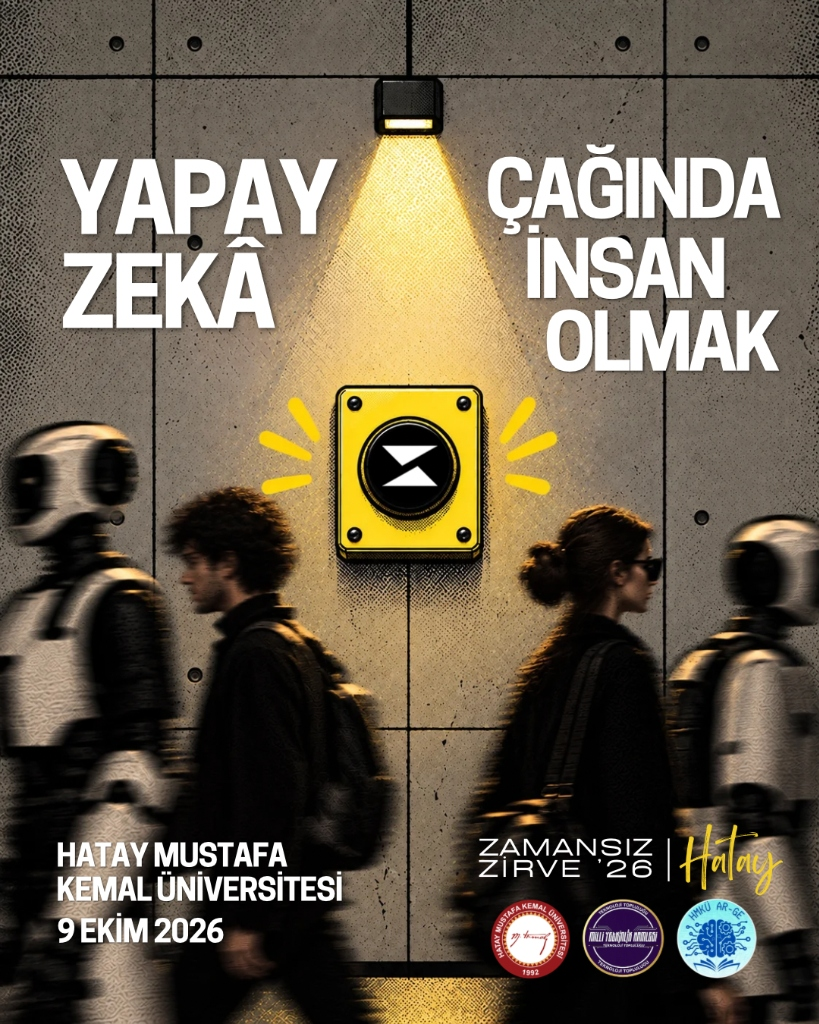
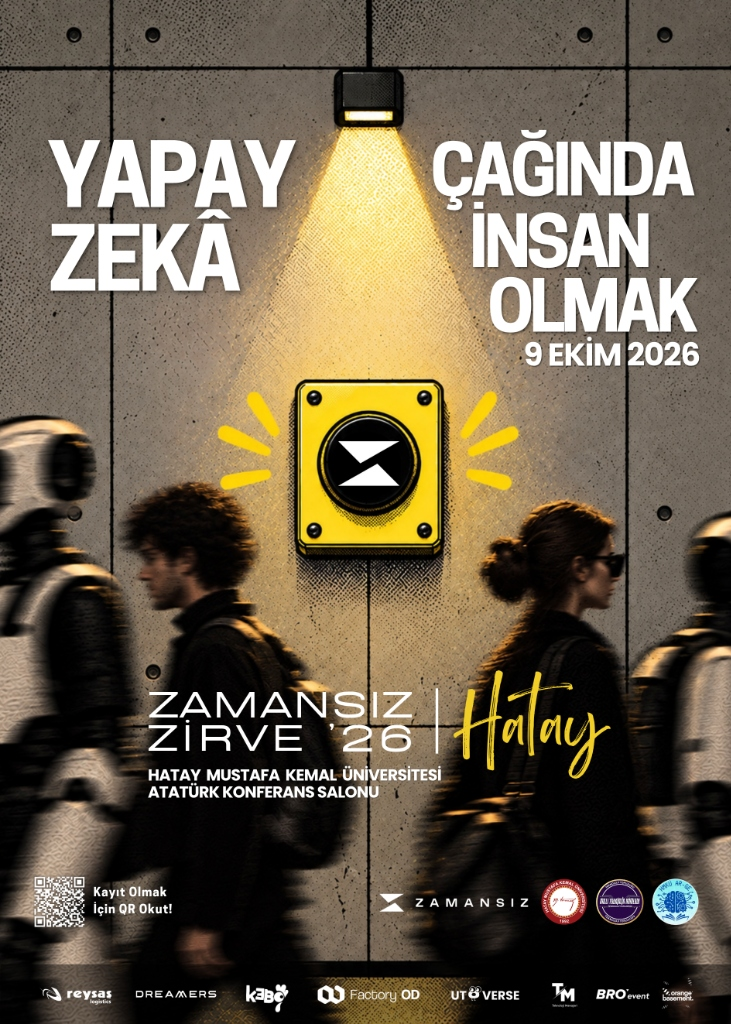
feat: Ozan Sihay konusmaci olarak eklendi, yeni afis guncellendi, sponsor bolumu ve CSS eklendi

diff --git a/public/index.html b/public/index.html
@@ -511,6 +511,30 @@
                         </a>
                     </div>
                 </div>
+
+                <!-- Speaker 11: Ozan Sihay -->
+                <div class="speaker-card animate-on-scroll">
+                    <div class="speaker-image-wrapper">
+                        <img src="images/speaker-ozan-sihay.png" alt="Ozan Sihay" class="speaker-image">
+                    </div>
+                    <div class="speaker-info">
+                        <h3 class="speaker-name">Ozan Sihay</h3>
+                        <span class="speaker-title">Yönetmen & Fotoğrafçı · OzWorks AI Creative Kurucusu · Üretken Yapay Zekâ Danışmanı</span>
+                        <p class="speaker-bio">
+                            Çukurova Üniversitesi mezunu olan Ozan Sihay, uluslararası yapımlarda (Skyfall, Charlie's Angels) reji ekiplerinde görev almış çok yönlü bir sanatçı, yönetmen ve fotoğrafçıdır. YouTube kanalında yapay zekâ, video düzenleme, fotoğrafçılık ve dijital eğitim içerikleri paylaşmaktadır. Hâlen Garanti, Google, Vodafone ve Turkuvaz Medya gibi büyük kurumsal markalara üretken yapay zekâ alanında eğitim ve danışmanlık vermekte; kurucusu olduğu OzWorks AI Creative ajansı aracılığıyla markalara yapay zekâ ile video üretimi hizmeti sunmaktadır.
+                        </p>
+                        <div class="speaker-tags">
+                            <span class="tag">OzWorks AI Kurucusu</span>
+                            <span class="tag">Yönetmen & Fotoğrafçı</span>
+                            <span class="tag">Üretken Yapay Zekâ</span>
+                            <span class="tag">Dijital İçerik Üreticisi</span>
+                        </div>
+                        <a href="https://ozansihay.com.tr" target="_blank" rel="noopener" class="speaker-linkedin">
+                            <svg width="18" height="18" viewBox="0 0 24 24" fill="none" stroke="currentColor" stroke-width="2" stroke-linecap="round" stroke-linejoin="round"><circle cx="12" cy="12" r="10"></circle><line x1="2" y1="12" x2="22" y2="12"></line><path d="M12 2a15.3 15.3 0 0 1 4 10 15.3 15.3 0 0 1-4 10 15.3 15.3 0 0 1-4-10 15.3 15.3 0 0 1 4-10z"></path></svg>
+                            <span>Web Sitesi</span>
+                        </a>
+                    </div>
+                </div>
             </div>
         </div>
     </section>
@@ -869,6 +893,7 @@
                                     <option value="Zeynep Küçük">Zeynep Küçük (Woman Engineer & Veri Bilimi Uzmanı)</option>
                                     <option value="Emre Uzunboy">Emre Uzunboy (Kreatör & Sosyal Medya İletişimcisi)</option>
                                     <option value="Mehmet Kaya">Mehmet Kaya (Nöropazarlama Danışmanı & Neuro Reflect)</option>
+                                    <option value="Ozan Sihay">Ozan Sihay (OzWorks AI Creative & Yönetmen)</option>
                                     <option value="Genel / Tüm Konuşmacılar">Genel / Tüm Konuşmacılara Ortak Soru</option>
                                 </select>
                             </div>
@@ -1068,6 +1093,43 @@
             </div>
         </div>
     </div>
+
+    <!-- Sponsorlar Section -->
+    <section class="section sponsors-section" id="sponsors">
+        <div class="container">
+            <div class="section-header animate-on-scroll">
+                <span class="section-tag">Destekçilerimiz</span>
+                <h2 class="section-title">Sponsorlar & İş Ortakları</h2>
+                <p class="section-desc">Zirvemize değer katan sponsorlarımız ve iş ortaklarımız</p>
+            </div>
+            <div class="sponsors-grid animate-on-scroll">
+                <div class="sponsor-item">
+                    <img src="images/sponsors/reysas.png" alt="Reysaş Logistics" class="sponsor-logo" loading="lazy">
+                </div>
+                <div class="sponsor-item">
+                    <img src="images/sponsors/dreamers.png" alt="Dreamers" class="sponsor-logo" loading="lazy">
+                </div>
+                <div class="sponsor-item">
+                    <img src="images/sponsors/kabo.png" alt="Kabo" class="sponsor-logo" loading="lazy">
+                </div>
+                <div class="sponsor-item">
+                    <img src="images/sponsors/factory-od.png" alt="Factory OD" class="sponsor-logo" loading="lazy">
+                </div>
+                <div class="sponsor-item">
+                    <img src="images/sponsors/utoverse.png" alt="Utoverse" class="sponsor-logo" loading="lazy">
+                </div>
+                <div class="sponsor-item">
+                    <img src="images/sponsors/tm.png" alt="TM" class="sponsor-logo" loading="lazy">
+                </div>
+                <div class="sponsor-item">
+                    <img src="images/sponsors/bro-event.png" alt="BRO Event" class="sponsor-logo" loading="lazy">
+                </div>
+                <div class="sponsor-item">
+                    <img src="images/sponsors/garage-basement.png" alt="Garage Basement" class="sponsor-logo" loading="lazy">
+                </div>
+            </div>
+        </div>
+    </section>
 
     <!-- Footer -->
     <footer class="footer">

diff --git a/public/styles.css b/public/styles.css
@@ -3446,3 +3446,81 @@ a:hover {
     }
 }
 
+/* === Sponsors Section === */
+.sponsors-section {
+    padding: var(--space-3xl) 0;
+}
+
+.sponsors-grid {
+    display: flex;
+    flex-wrap: wrap;
+    align-items: center;
+    justify-content: center;
+    gap: var(--space-lg);
+    margin-top: var(--space-xl);
+    padding: var(--space-xl) var(--space-lg);
+    background: var(--bg-secondary);
+    border: 1px solid var(--border-color);
+    border-radius: var(--radius-2xl);
+}
+
+.sponsor-item {
+    display: flex;
+    align-items: center;
+    justify-content: center;
+    padding: 14px 24px;
+    background: var(--bg-primary);
+    border: 1px solid var(--border-color);
+    border-radius: var(--radius-xl);
+    transition: all var(--transition-fast);
+    min-width: 120px;
+    min-height: 60px;
+}
+
+.sponsor-item:hover {
+    transform: translateY(-3px);
+    box-shadow: 0 8px 24px -8px rgba(0, 0, 0, 0.15);
+    border-color: var(--accent-primary);
+}
+
+[data-theme="dark"] .sponsor-item:hover {
+    box-shadow: 0 8px 24px -8px rgba(99, 102, 241, 0.2);
+}
+
+.sponsor-logo {
+    max-width: 120px;
+    max-height: 40px;
+    object-fit: contain;
+    filter: grayscale(100%) opacity(0.6);
+    transition: all var(--transition-fast);
+}
+
+.sponsor-item:hover .sponsor-logo {
+    filter: grayscale(0%) opacity(1);
+}
+
+[data-theme="dark"] .sponsor-logo {
+    filter: grayscale(100%) opacity(0.5) brightness(1.5);
+}
+
+[data-theme="dark"] .sponsor-item:hover .sponsor-logo {
+    filter: grayscale(0%) opacity(1) brightness(1.2);
+}
+
+@media (max-width: 768px) {
+    .sponsors-grid {
+        gap: var(--space-sm);
+        padding: var(--space-md);
+    }
+
+    .sponsor-item {
+        padding: 10px 16px;
+        min-width: 100px;
+        min-height: 48px;
+    }
+
+    .sponsor-logo {
+        max-width: 90px;
+        max-height: 32px;
+    }
+}
